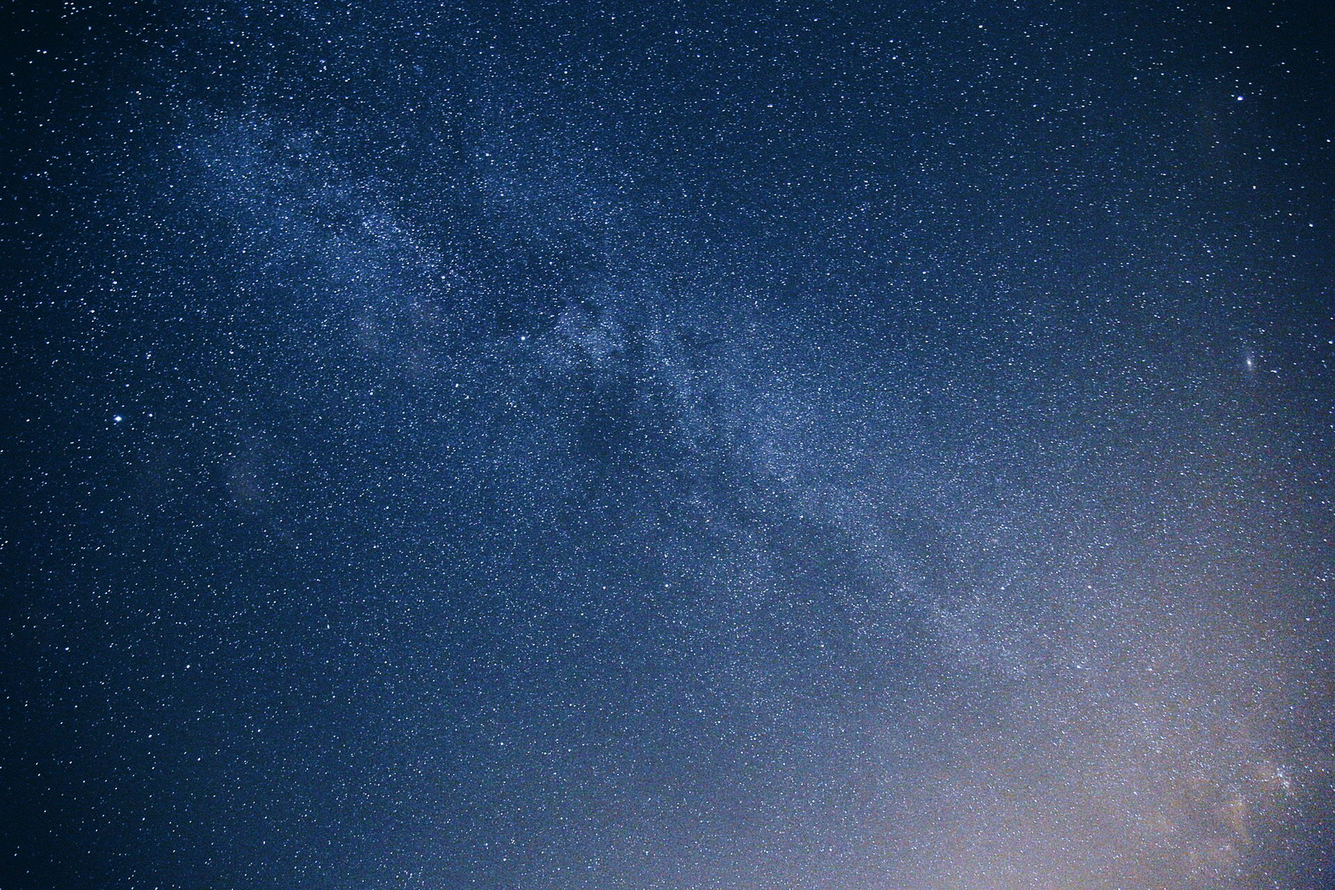
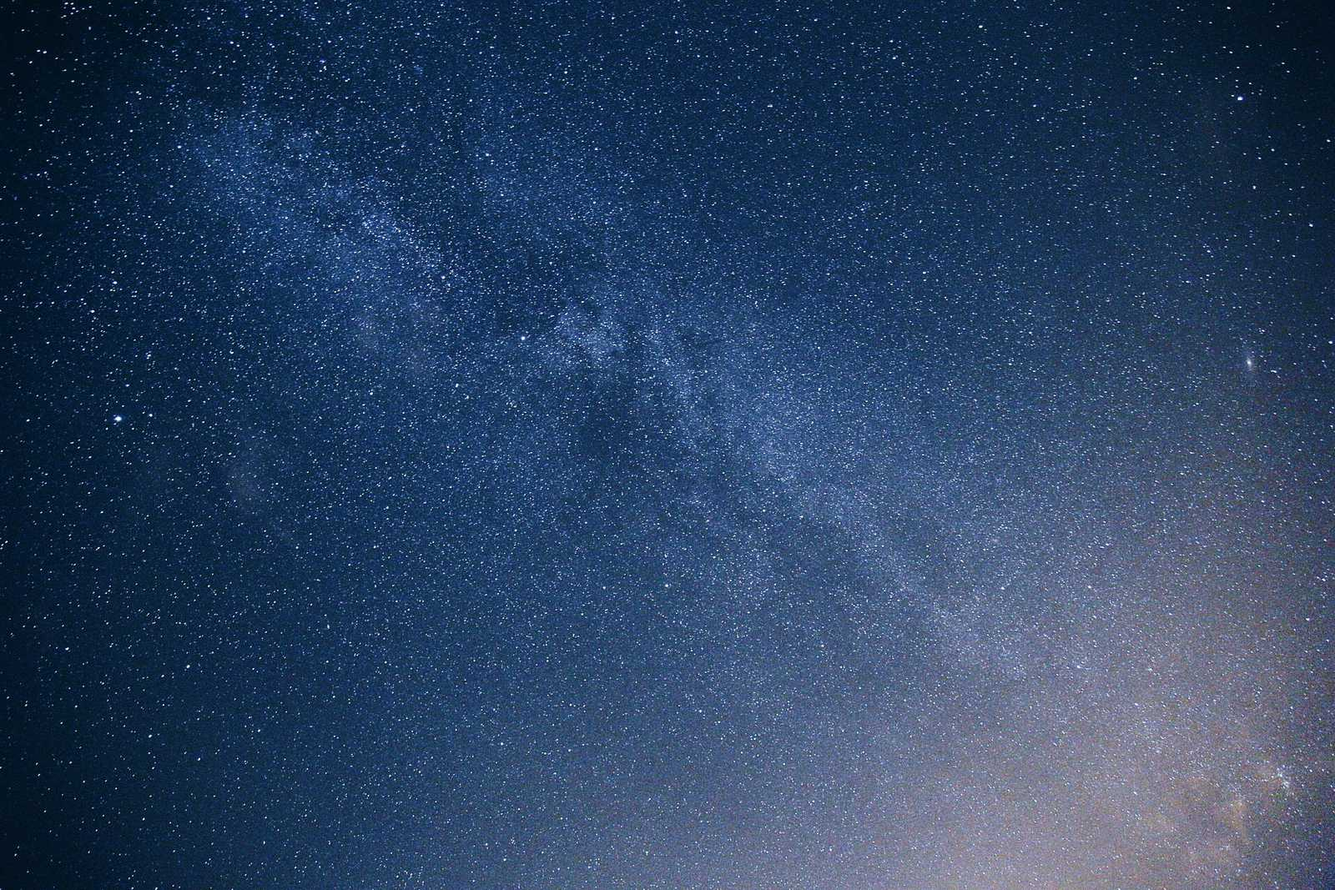
feat: image optimization

diff --git a/Gruntfile.js b/Gruntfile.js
@@ -36,14 +36,14 @@ module.exports = function(grunt) {
 
             width: 1600 ,
             suffix: '_large_2x',
-            quality:100
+            quality:50
 
           },
           {
 
             width: 800 ,
             suffix: '_medium_1x',
-            quality:100
+            quality:50
 
           },
           {
